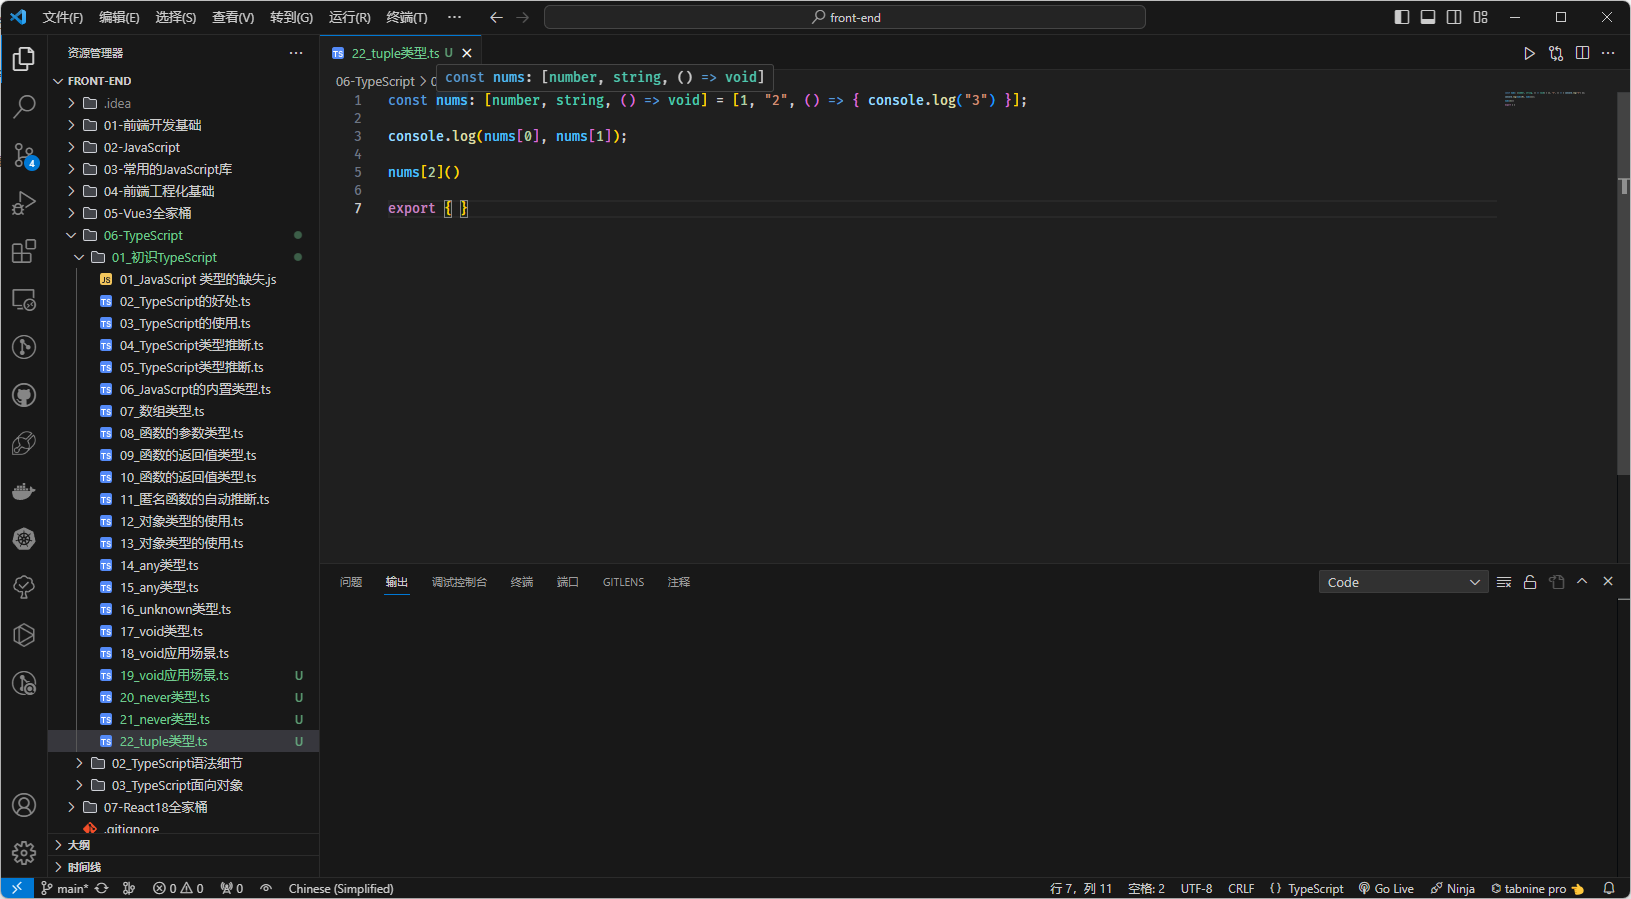
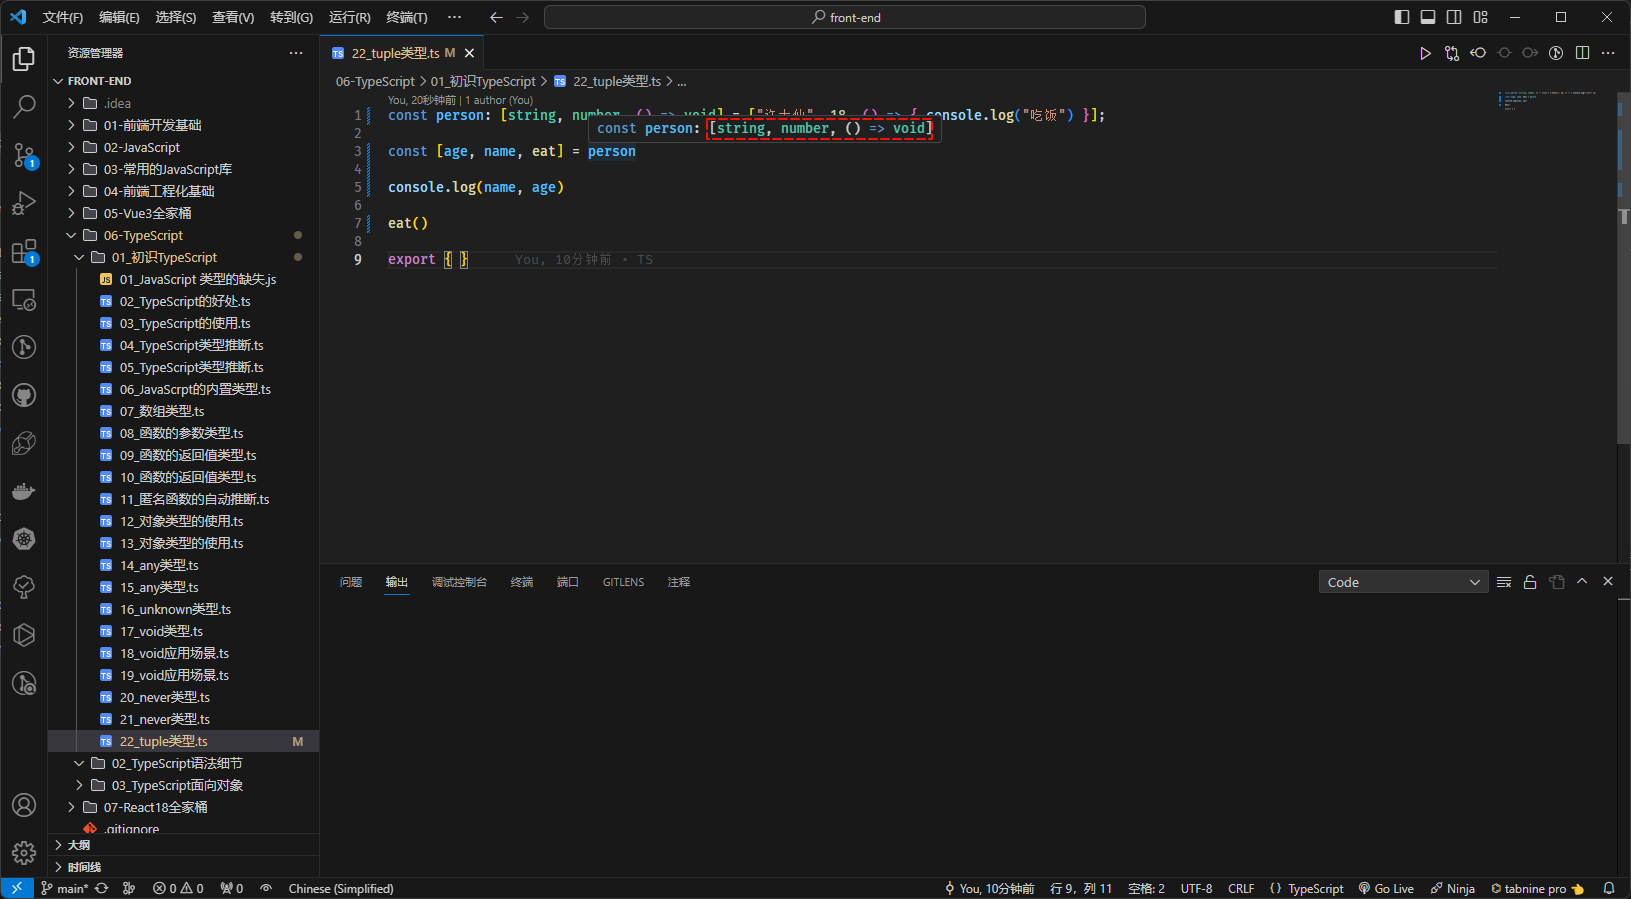
TS

diff --git a/docs/notes/06_TypeScript/01_xdx/index.md b/docs/notes/06_TypeScript/01_xdx/index.md
@@ -963,13 +963,15 @@ export { }
 * 示例：
 
 ```ts {1}
-const nums: [number, string, () => void] = [1, "2", () => { console.log("3") }];
+const person: [string, number, () => void] = ["许大仙", 18, () => { console.log("吃饭") }];
 
-console.log(nums[0], nums[1]);
+const [age, name, eat] = person
 
-nums[2]()
+console.log(name, age)
+
+eat()
 
 export { }
 ```
 
-![image-20240126104212073](./assets/27.png)
+![image-20240126105342836](./assets/27.png)
